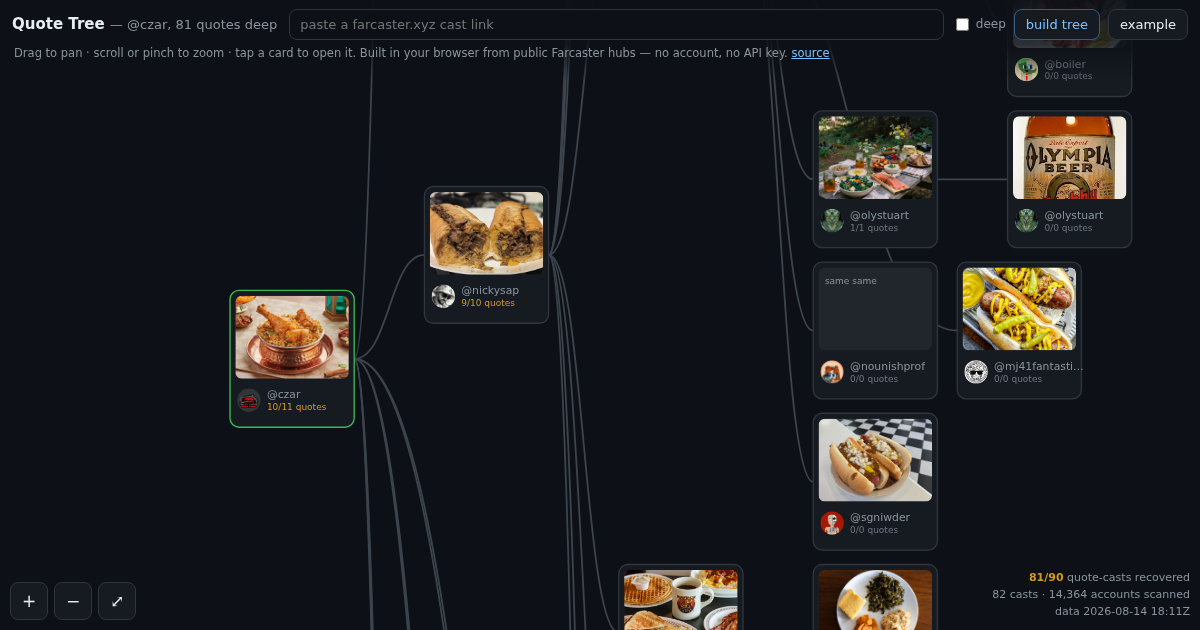
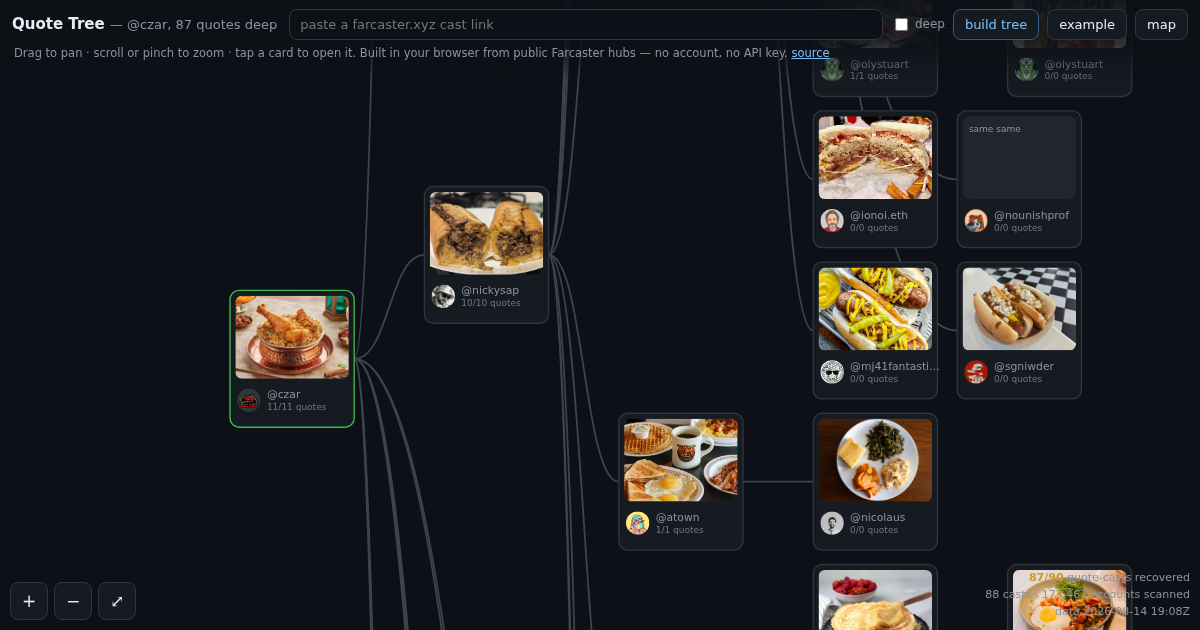
Second pass: 88 casts, 87 of 90 quotes recovered
A 30-minute deepen run over 159,099 of the 275,358 ranked candidates found six more
casts and closed five of the nine gaps. Three nodes are still one child short and one
is short by one with none found; those four are named in the audit rather than rounded
away. Locations backfilled: 34 of 81 authors declare a geo: value, 35 casts get a pin.

diff --git a/README.md b/README.md
@@ -39,7 +39,7 @@ Farcaster's client API reports a `quoteCount` per cast — how many casts quote 
 the tree therefore knows how many children it *should* have. Each card shows `found/expected`,
 turning amber when it is short, and the corner shows the total:
 
-> **81/90 quote-casts recovered** · 82 casts · 14,364 accounts scanned
+> **87/90 quote-casts recovered** · 88 casts · 173,463 accounts scanned
 
 A reconstructed tree that cannot be checked is a guess. One that can be is a measurement.
 
@@ -56,7 +56,7 @@ the only server dependency in the project, it is optional, and it is 60 lines
 The bounty asked, as a bonus, for a game that reveals where a poster grew up. Nothing public says
 that. Rather than invent it, the map reveals the one location Farcaster actually carries:
 `USER_DATA_TYPE_LOCATION`, a `geo:lat,lon` string the poster typed into their own profile. In the
-example tree 35 of 82 casts have one; the rest simply have no pin, and the page says in both
+example tree 35 of 88 casts have one; the rest simply have no pin, and the page says in both
 places it could mislead you that this is a self-declared *current* location — not where anyone
 grew up, and not where the photo was taken.
 
@@ -118,9 +118,9 @@ Things that cost me time, written down so they don't cost you any:
   `/v2/followers` pages 50 at a time against a 500-request hourly budget — one popular account
   would eat the whole thing.
 - Popular casts have tens of thousands of likers. Paginate with `nextPageToken` and expect it.
-- Profiles can carry `USER_DATA_TYPE_LOCATION` as `geo:lat,lon`. 58 of 75 authors in the example
-  tree have the *message*; only 34 have a non-empty value, so treat "has a location" and "declared
-  a location" as different questions.
+- Profiles can carry `USER_DATA_TYPE_LOCATION` as `geo:lat,lon`. 60 of the 81 authors in the
+  example tree have the *message*; only 34 have a `geo:` value, so treat "has a location" and
+  "declared a location" as different questions.
 - **`castsByParent` never tells you it is done.** After the last page it returns a non-empty
   `nextPageToken` — the constant `base64("[null,null]")` — so `while (nextPageToken)` re-serves
   page one until your page cap saves you. It is silent: nothing errors, you just get the same
